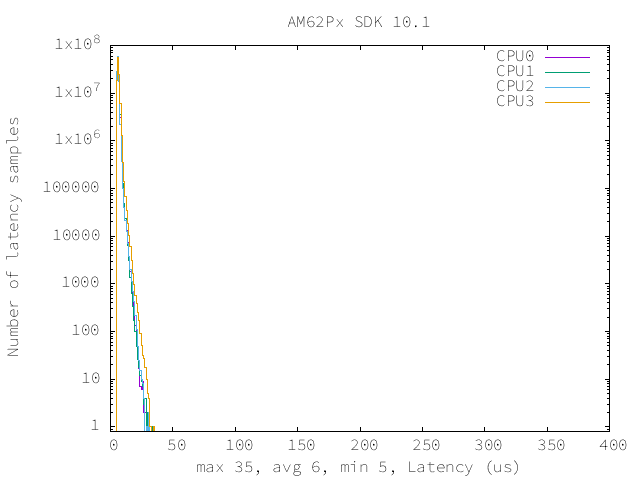
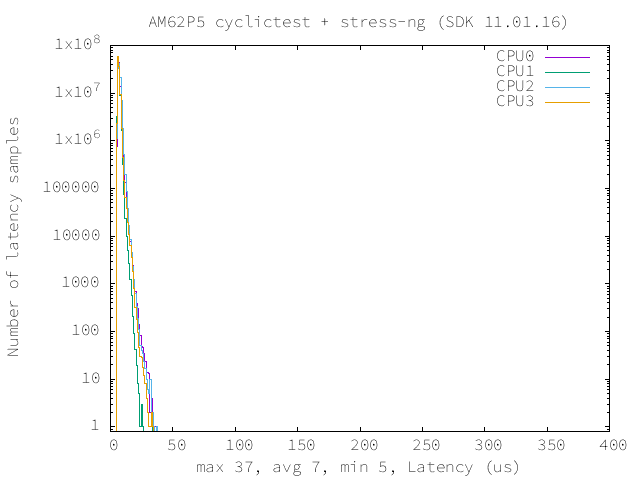
perf(linux): AM62PX: Update PREEMPT_RT perf numbers for 11.1
Update the real-time Linux latency numbers for SDK 11.1

diff --git a/source/devices/AM62PX/linux/RT_Linux_Performance_Guide.rst b/source/devices/AM62PX/linux/RT_Linux_Performance_Guide.rst
@@ -57,13 +57,24 @@ Test commands used for running stress-ng and cyclictest together
    stress-ng --cpu-method=all -c 4 &
    cyclictest -m -Sp80 -D6h -h400 -i200 -M -q
 
-The latencies observed with this SDK are summarized below:
+The following summarizes the latencies observed using the yocto based
+default SDK image
+
+.. note::
+
+   A known issue in this SDK release is affecting this benchmark.
+   Using OP-TEEs PRNG drivers rather than the hardware accelerated TRNG
+   drivers restores the context switch latencies to the values you see
+   here.
+
+   More information on switching to the PRNG drivers can be found in the
+   Foundational Components section, here :ref:`building-optee-with-prng`
 
 .. csv-table::
    :header: "Latencies","CPU 0","CPU 1","CPU 2","CPU 3"
 
    "Minimum (usec)","5","5","5","5"
-   "Average (usec)","6","6","5","6"
-   "Maximum (usec)","30","33","31","35"
+   "Average (usec)","6","6","7","6"
+   "Maximum (usec)","36","34","37","34"
 
 .. image:: img/rt-cpu-method-all-latency-histogram.png
